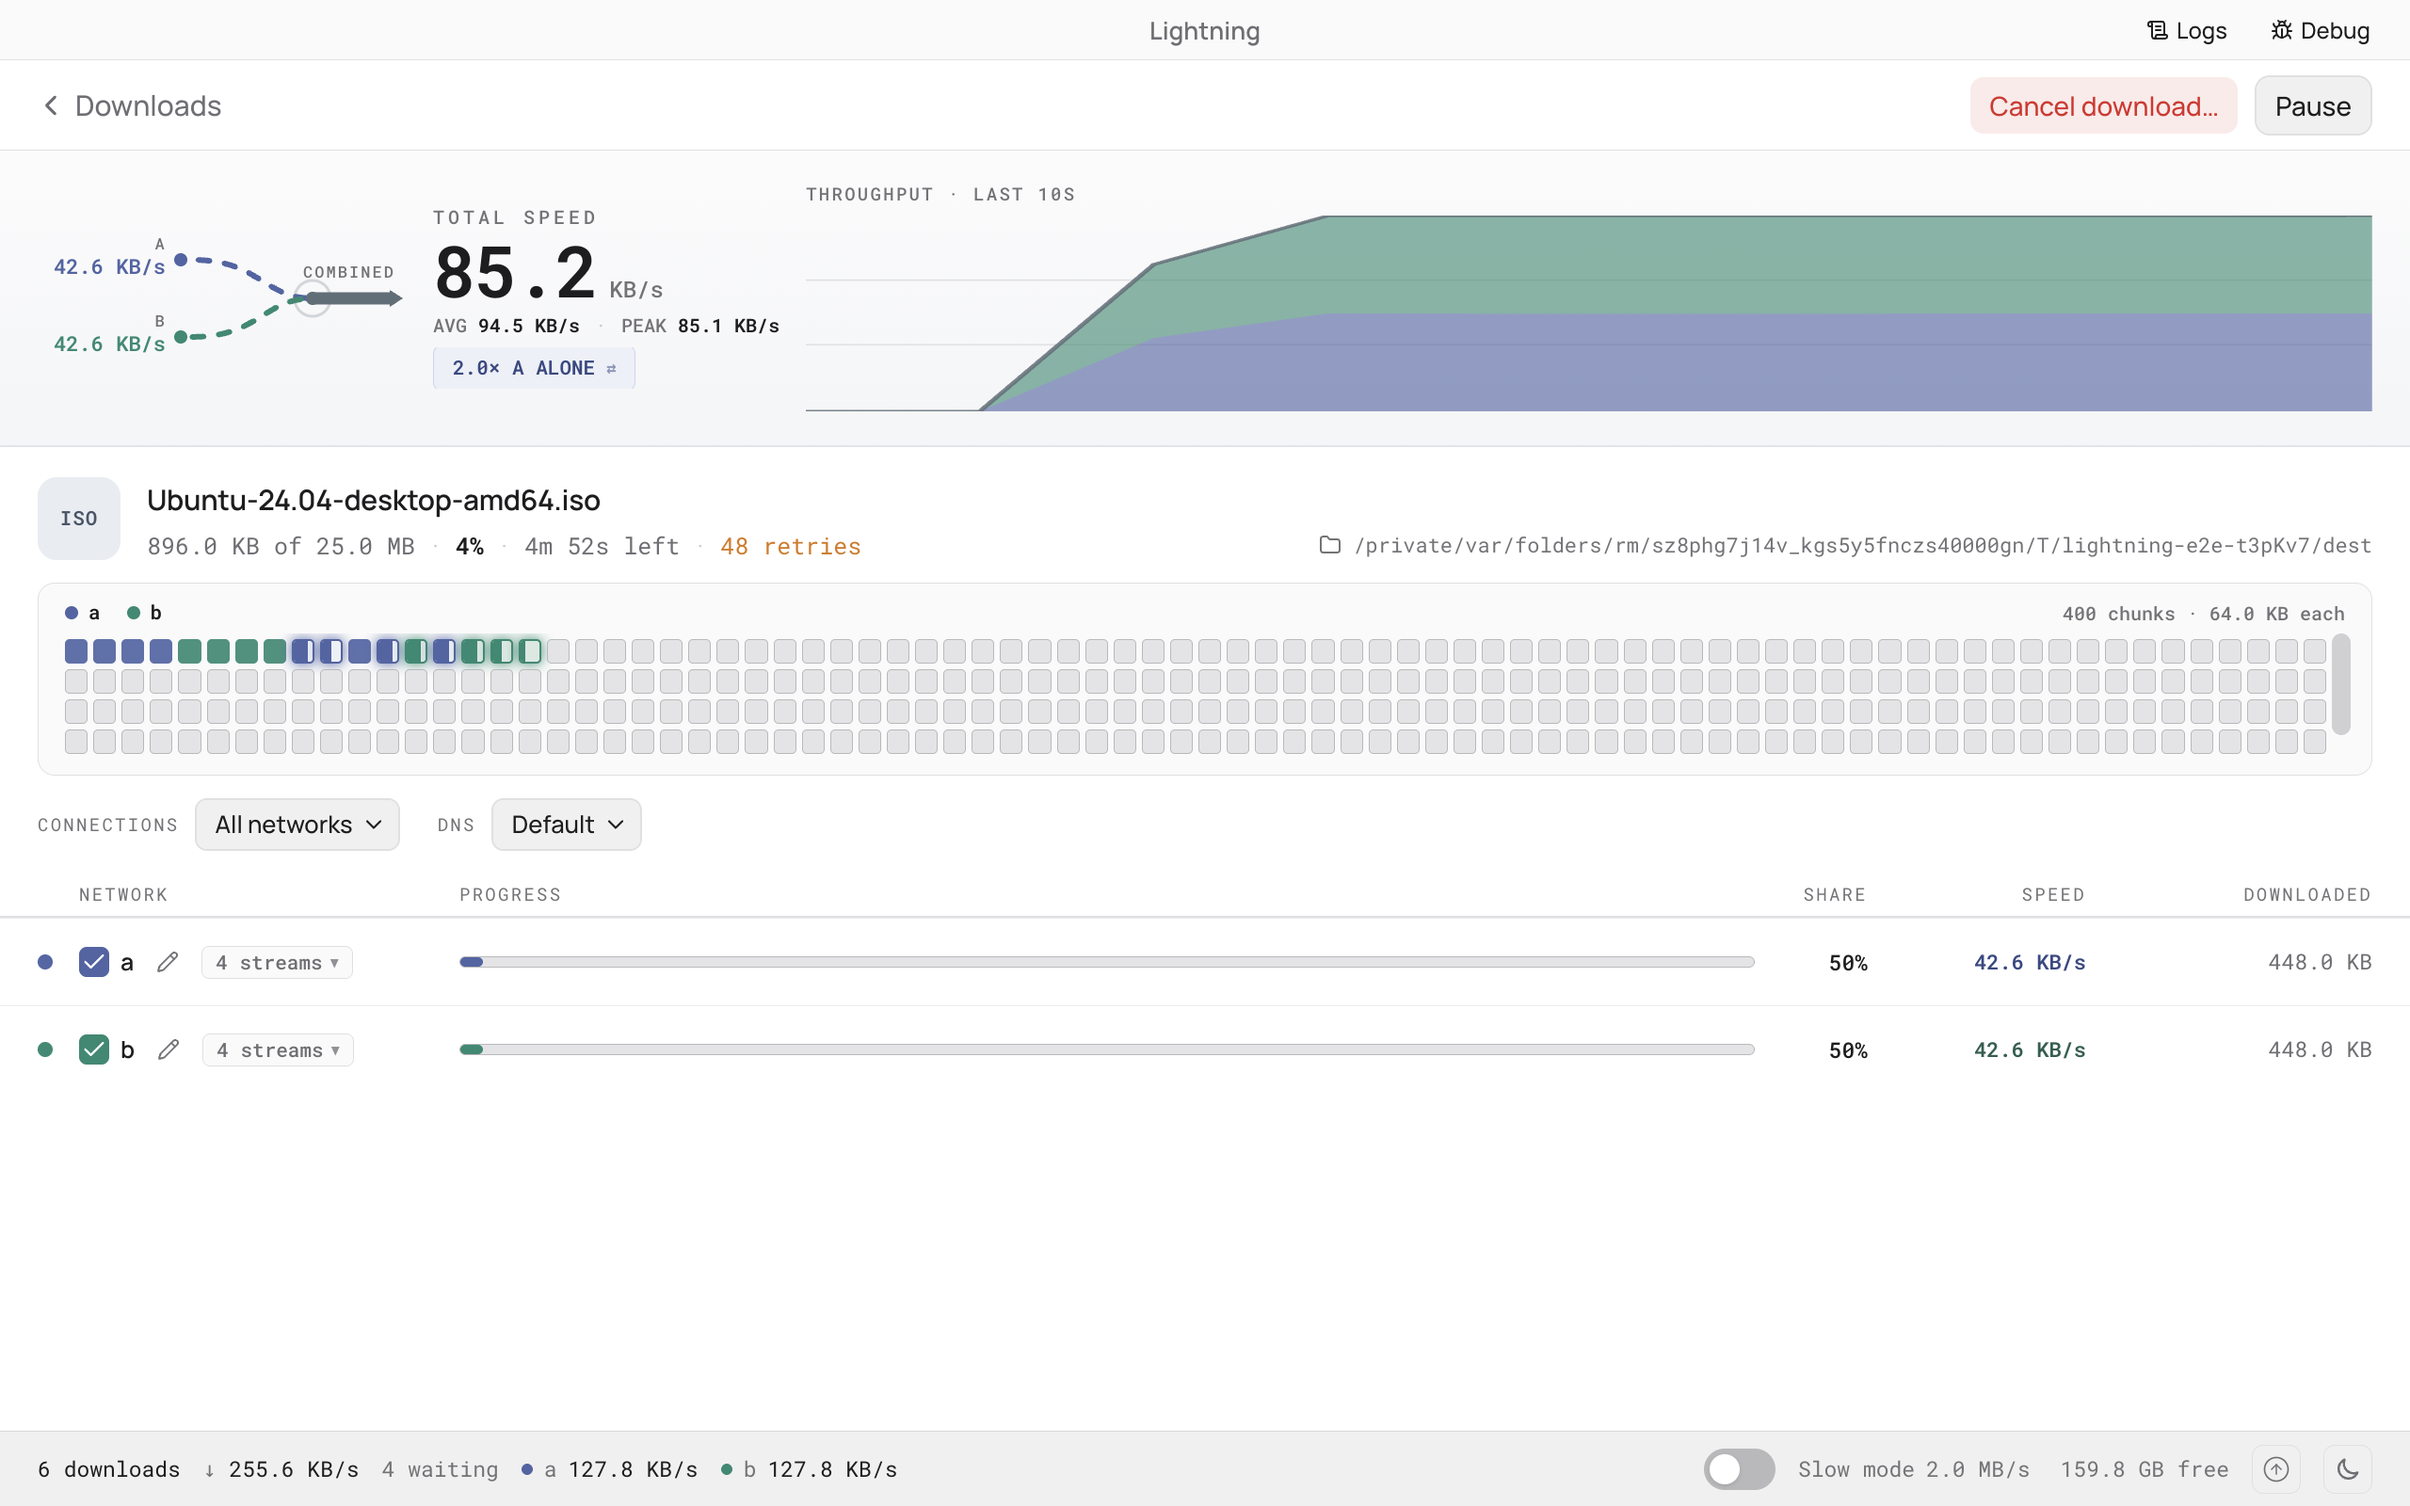
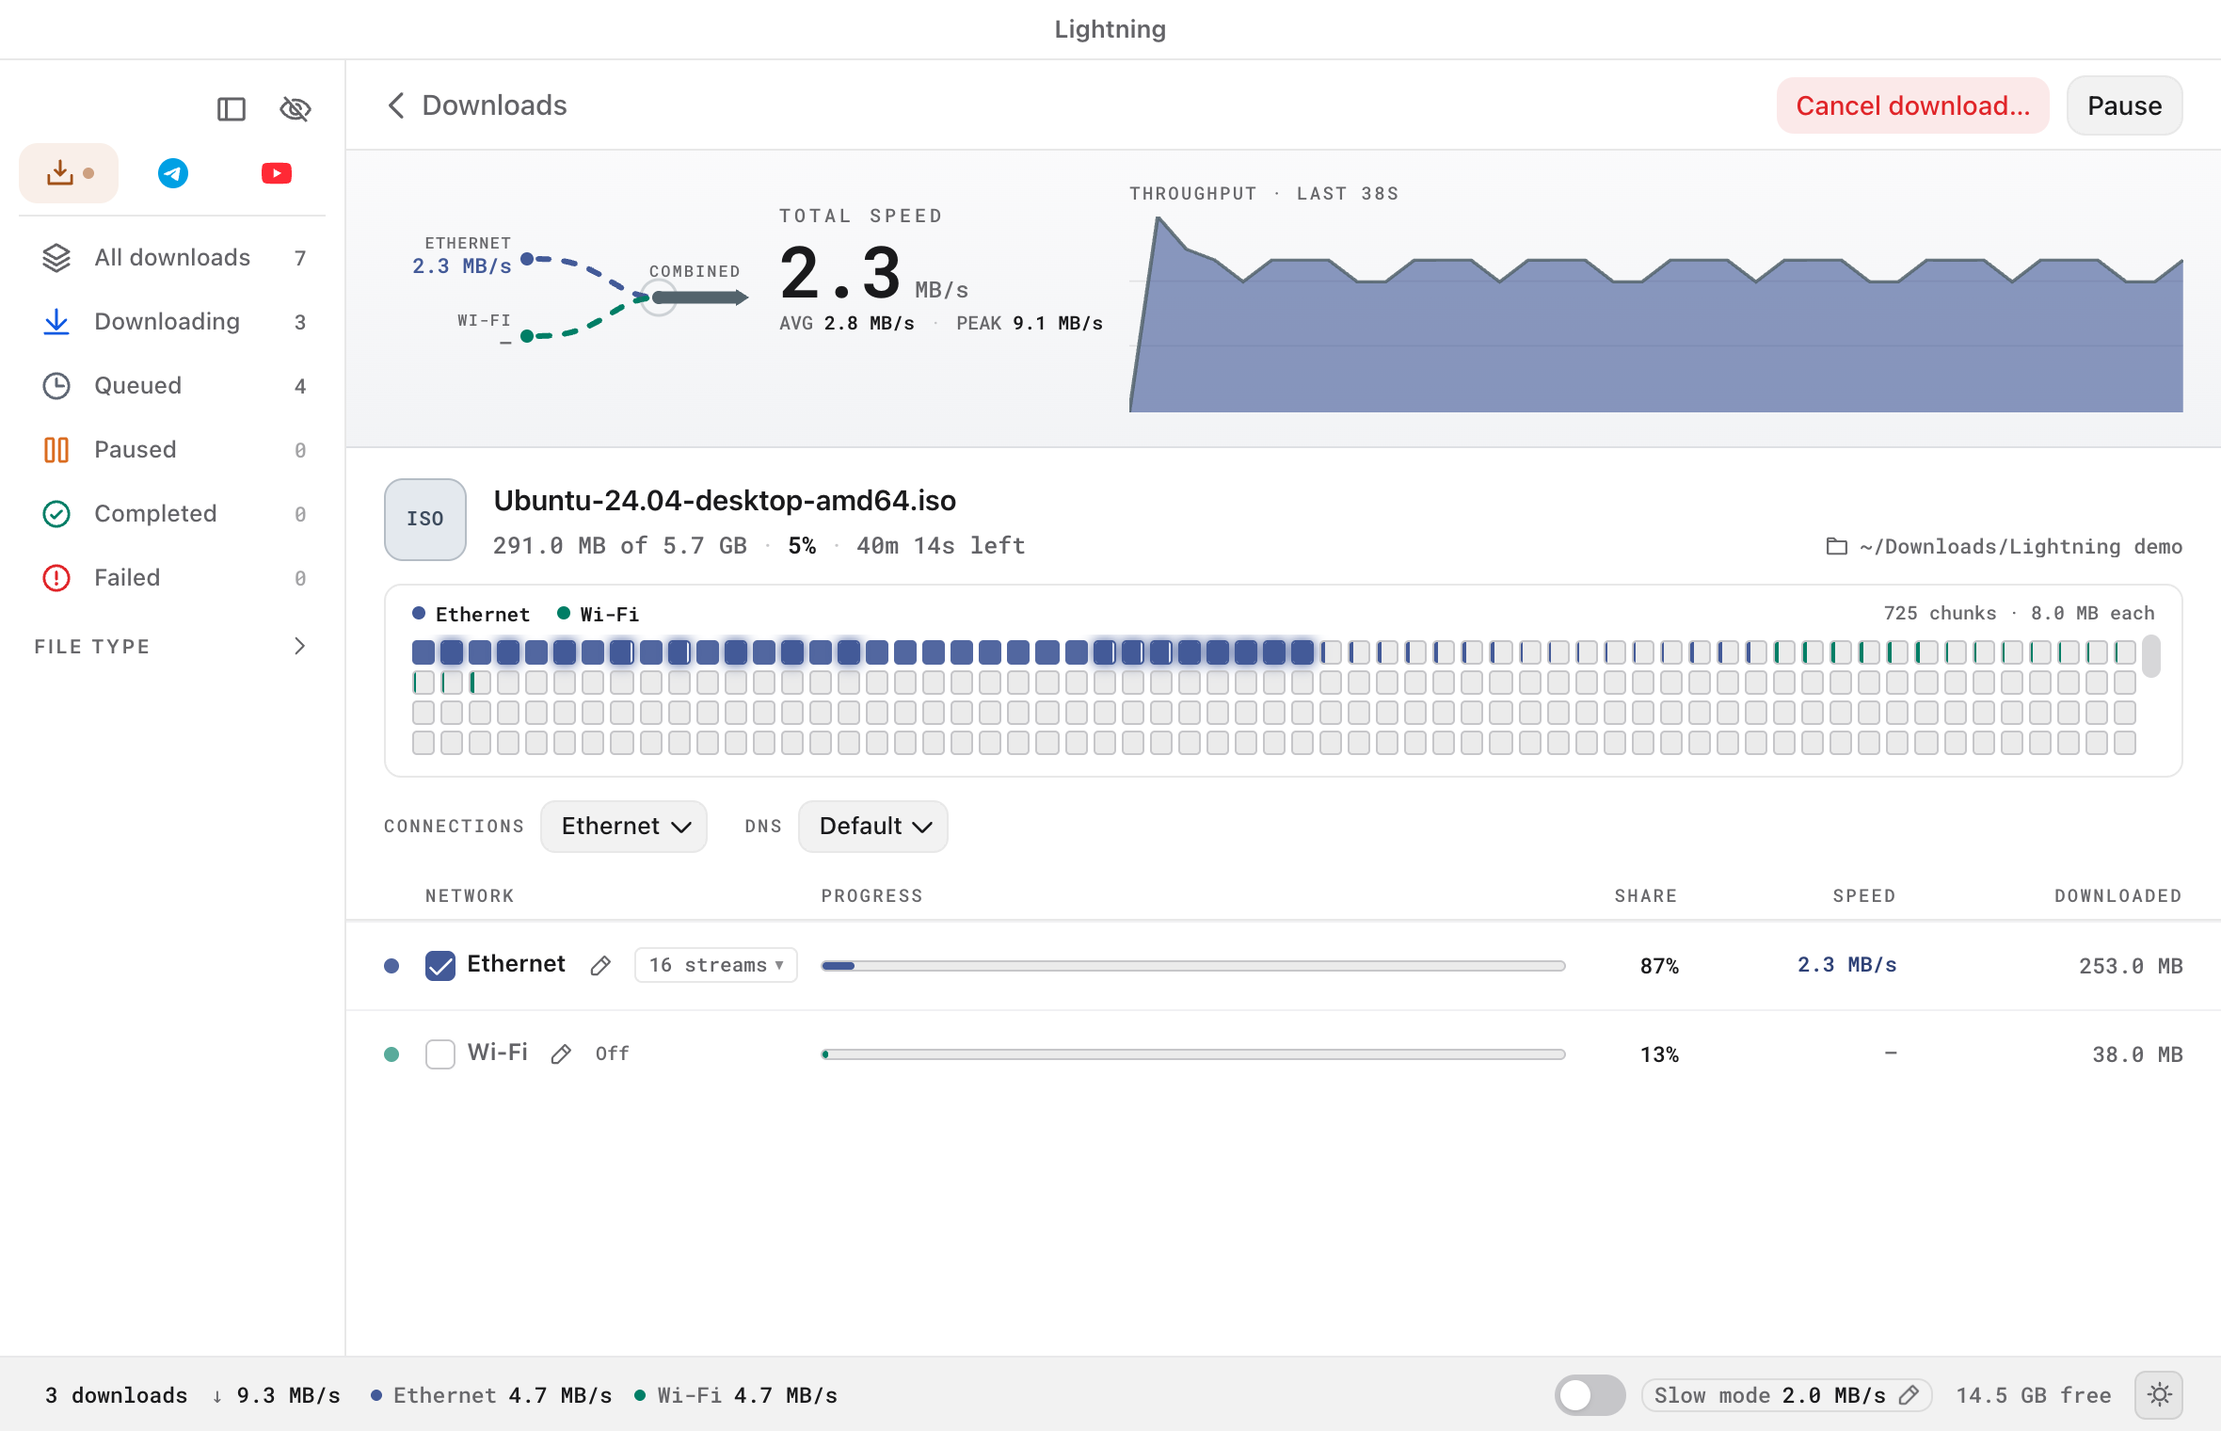
docs: refresh screenshots and README for the new app
New screenshots (list, details, links, settings) taken from the current UI; README covers the
Settings window, window glass, the menu-bar panel and the first-run tour; website alt text and
the next changelog entry follow.

diff --git a/docs/changelog.js b/docs/changelog.js
@@ -10,6 +10,36 @@
 
   root.LightningChangelog = [
     {
+      version: 'v1.0.0-rc.39',
+      items: [
+        {
+          kind: 'new',
+          title: 'Settings in its own window',
+          text: 'Settings opens beside the main window, in clean grouped lists, so you can keep working while you change things.'
+        },
+        {
+          kind: 'new',
+          title: 'Window glass on macOS',
+          text: 'The window can be see-through and blur what is behind it. Set how much in Settings → Appearance.'
+        },
+        {
+          kind: 'new',
+          title: 'A menu-bar panel you arrange',
+          text: 'Pick up to six buttons (VPN, slow mode, new download and more), drag them into order, and pin the panel open. The speed shows beside the bolt, in KB/s or MB/s.'
+        },
+        {
+          kind: 'improved',
+          title: 'YouTube and Telegram count too',
+          text: 'Their downloads are included in the menu-bar speed and counts.'
+        },
+        {
+          kind: 'fixed',
+          title: 'App icon size',
+          text: 'The Dock icon now has the standard margin, so it is the same size as other apps.'
+        }
+      ]
+    },
+    {
       version: 'v1.0.0-rc.38',
       items: [
         {

diff --git a/docs/index.html b/docs/index.html
@@ -1401,21 +1401,21 @@
           <li>
             <img
               src="screenshots/links.png"
-              alt="Lightning's link picker showing Wi-Fi and USB Tethering selected, with ping and parallel stream controls."
+              alt="Lightning's Add several links window: seven links pasted, ready to be listed and sent to every network."
               loading="lazy"
             />
           </li>
           <li>
             <img
               src="screenshots/downloading.png"
-              alt="Lightning combining Wi-Fi and USB tethering into one 27.9 MB/s download, with per-network speed and progress."
+              alt="One download's page: total speed over time, a map of every chunk coloured by the network that fetched it, and each network's share."
               loading="lazy"
             />
           </li>
           <li>
             <img
               src="screenshots/complete.png"
-              alt="Lightning download complete summary: 109.3 MB in 8 seconds at 39.4 MB/s peak, split across Wi-Fi and USB tethering."
+              alt="Lightning's list with files finished, downloading, paused and waiting, and a group sharing its networks between files."
               loading="lazy"
             />
           </li>

diff --git a/README.md b/README.md
@@ -16,7 +16,7 @@
 </p>
 
 <p align="center">
-  <img src="docs/screenshots/main.png" alt="Lightning's download list, with two files downloading and four queued" width="860" />
+  <img src="docs/screenshots/main.png" alt="Lightning's download list: a group of seven files, three downloading over Wi-Fi and Ethernet and four waiting" width="860" />
 </p>
 
 ---
@@ -54,7 +54,7 @@ Faster networks take more pieces, so a slow one never holds the others back.
 - **Limits.** Cap total speed, switch on slow mode, or give each network its own speed and daily, weekly or monthly data limit.
 - **DNS, with a test.** Pick DNS servers for the app, a group or one download, from a list that includes well-known Iranian ones (Electro, Shecan, Begzar and more). **Test DNS for this site** tries every DNS on a link's real host and measures the servers they lead to. **Auto** uses the best one found for each site. A DNS that sends a site to a server with the wrong certificate is flagged and never chosen.
 - **Proxy.** Use the system proxy, none, or a manual HTTP, HTTPS, FTP or SOCKS5 proxy for the app's own requests.
-- **VPN.** Lightning detects your VPN and lets you switch whether downloads may use it, from the top bar.
+- **VPN.** Lightning detects your VPN and lets you switch whether downloads may use it, from the top bar or the menu-bar panel.
 - **Power.** Keeps the computer awake while a download runs.
 - **Schedule.** Weekly run or pause windows (overnight ones too), each with an optional speed cap.
 - **When downloads finish.** Optionally ask whether to quit, sleep or shut down; a file can also open itself, or show in its folder, when done.
@@ -70,6 +70,7 @@ Faster networks take more pieces, so a slow one never holds the others back.
 - **Resizable, sortable columns** and search with previous/next and a counter such as `1/23`. Long names can wrap onto several lines.
 - **Right-click or `⋯` on any row** for open, show in folder, details, pause/resume/retry, fix link, copy link, copy name or location, download again, remove from list, delete file, or cancel and delete partial data. Anything destructive asks first, and bulk actions apply to the whole selection.
 - **A status bar** with the count, total speed and the speed of each network.
+- **YouTube and Telegram tabs.** The row of three icons at the top of the sidebar switches between **Downloads**, **Telegram** and **YouTube**. The filters under it follow the tab, and a tab pulses while something in it is downloading. YouTube videos download at the quality you pick, and when YouTube asks you to sign in, Lightning offers to use your browser's cookies. Telegram files download through the Telegram downloader, with your own account.
 
 <p align="center">
   <img src="docs/screenshots/details.png" alt="A finished download's details: speed over time and each network's share of the file" width="860" />
@@ -77,11 +78,26 @@ Faster networks take more pieces, so a slow one never holds the others back.
 
 Open any download to see its speed over time, what each network contributed, and a map of every chunk coloured by the network that fetched it.
 
+### The menu-bar panel
+
+Click the bolt in the menu bar (macOS) for a small panel instead of a menu: the total speed and a live graph, each network's share, the downloads running now, and a row of buttons.
+
+- **Speed beside the icon.** The total speed sits next to the bolt, the number over its unit, in KB/s or MB/s as you choose (or automatic). It turns yellow while something downloads and reads `0` when everything is paused.
+- **Your own buttons.** Press **Edit** to drag the buttons into order, remove some and add others from a shelf: new download, several links, pause all, resume all, VPN on/off, slow mode on/off, open the downloads folder, Telegram, check for updates, logs, Settings and Open. The panel holds at most six, and each grows or shrinks to fit.
+- **Pin.** Pin keeps the panel open while you work elsewhere. Without it, a click outside closes it.
+- **Everything counts.** YouTube and Telegram downloads are included in the speed and the counts.
+
 ### History and settings
 
 - **History** keeps every finished file with search, size, date, uploaded bytes and a mark when the file has gone missing. Rename a file (on disk too, if it is still there), show it in Finder or Explorer, remove it from history only, or clear the lot.
-- **Settings** has General, History, Appearance (text size, light or dark, accent colour), Network, Notifications, Power and Interface (close to the tray, hide the Dock icon).
+- **Settings** opens in a window of its own, so you can keep working in the main window beside it. The pages are General, History, Usage, Appearance, Network, Notifications, Power, Schedule, Browser, Telegram, YouTube, Interface and Status bar. Changes apply and save as you make them.
+- **Appearance.** Text size, light or dark, six accent colours, and on macOS the **window glass**: how see-through the window is (0 to 90%) and how strongly it blurs what is behind it (off, standard or strong).
+- **A first-run intro and tour.** The first launch plays a short intro, then a step-by-step tour of the main screens. Both can be replayed from Settings → Interface.
 - **Logs window and diagnostic report** with sensitive details redacted, for when something goes wrong.
+
+<p align="center">
+  <img src="docs/screenshots/settings.png" alt="Settings in its own window, on the Appearance page: text size, theme, window glass and accent colours" width="720" />
+</p>
 
 ## Install
 
